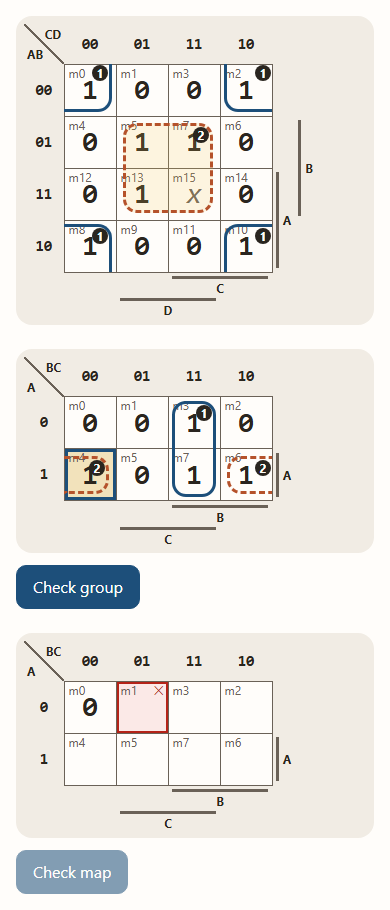
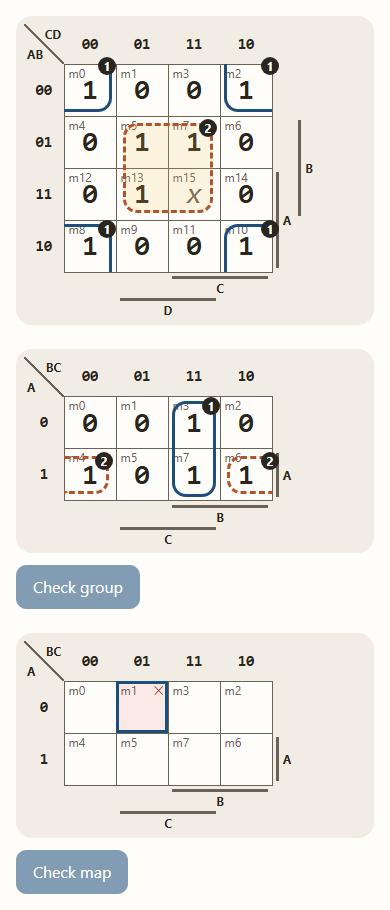
fix(kinds): K-map group badge sits on the outline corner, off the cell value (#377 UX)

diff --git a/src/kinds/kmap/KarnaughMap.module.css b/src/kinds/kmap/KarnaughMap.module.css
@@ -185,16 +185,17 @@
   background: color-mix(in srgb, var(--focus-halo) 55%, transparent);
 }
 
-/* top-right of the outline: clear of the minterm number (top-left) and the value (centre) */
+/* centred on the outline's top-right corner, above the line, so it never covers a value */
 .badge {
   position: absolute;
-  right: 1px;
-  top: 1px;
+  right: -7px;
+  top: -7px;
+  z-index: 1;
   display: grid;
   place-items: center;
-  min-width: 16px;
-  height: 16px;
-  border-radius: 8px;
+  min-width: 18px;
+  height: 18px;
+  border-radius: 9px;
   background: var(--text);
   color: var(--surface);
   font-size: 12px;
